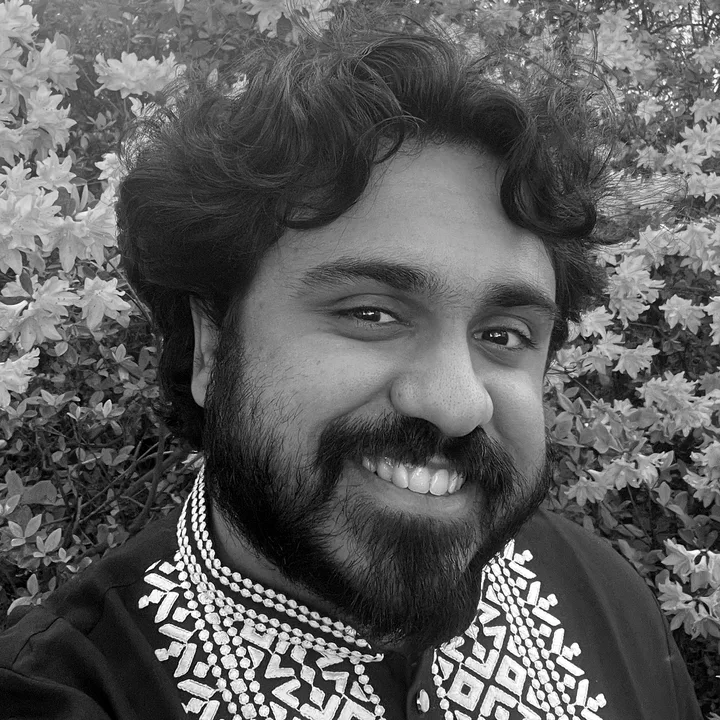
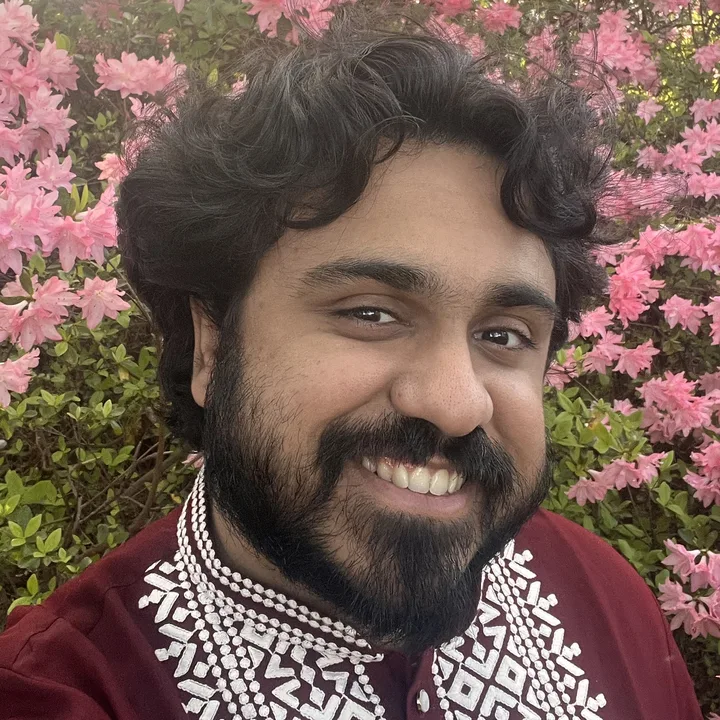
Playlab: team card photo turns to full color on hover
The photo is now the color crop, greyed with a CSS filter that eases off
on hover, as on Playlab's team page.

Claude-Session: https://claude.ai/code/session_01LvZ3gHBdktRdPitHGw6W9i

diff --git a/playlab/index.html b/playlab/index.html
@@ -183,7 +183,12 @@
     border-radius:8px; overflow:hidden; background:var(--paper);
     box-shadow:var(--shadow-2); transform:rotate(-2deg);
   }
-  .team-card img{ width:100%; height:auto; aspect-ratio:1; object-fit:cover; }
+  /* greyscale at rest, full color on hover, as on their team page */
+  .team-card img{
+    width:100%; height:auto; aspect-ratio:1; object-fit:cover;
+    filter:grayscale(1); transition:filter .36s cubic-bezier(.22,1,.36,1);
+  }
+  .team-card:hover img{ filter:none; }
   .team-card figcaption{ background:var(--yellow); padding:10px 12px 12px; display:flex; flex-direction:column; gap:1px; }
   .team-name{ font-size:15px; font-weight:500; line-height:1.3; }
   .team-role{ font-size:12px; line-height:1.35; }

diff --git a/CLAUDE.md b/CLAUDE.md
@@ -80,7 +80,7 @@ Some pages are tailored portfolios built for a specific job application, not gen
 | Wayfinder pitch | `wayfinder/` | Application to Wayfinder (Senior Product Designer). Restyled in Wayfinder's own brand: Forest/Sun Pop, Poppins + Lora + Londrina Solid, topo textures, no doodles or drawing toolbar |
 | Wayfinder pitch, classic | `wayfinder-classic/` | The earlier version in the portfolio's own graph-paper style, kept for reference |
 | CodePath pitch | `codepath/` | Application to CodePath (first Senior Product Designer). Portfolio style; cases reordered onboarding → Chiron → staff tools → design system |
-| Playlab pitch | `playlab/` | Application to Playlab (Senior Product Designer). Restyled in Playlab's own brand: cream/mist bands, cyan hero with a cut-paper collage holding a greyscale team-page portrait card (`rahul-team.webp`), Inter Tight standing in for Neue Haas Grotesk, Ink buttons at a 4px radius, pink graph-paper panel, ruled-paper résumé band, no doodles or drawing toolbar. Copy angled at building with AI and educators as makers; cases ordered Chiron → educator tools → onboarding → other disciplines |
+| Playlab pitch | `playlab/` | Application to Playlab (Senior Product Designer). Restyled in Playlab's own brand: cream/mist bands, cyan hero with a cut-paper collage holding a team-page portrait card (`rahul-team.webp`, greyscale until hovered), Inter Tight standing in for Neue Haas Grotesk, Ink buttons at a 4px radius, pink graph-paper panel, ruled-paper résumé band, no doodles or drawing toolbar. Copy angled at building with AI and educators as makers; cases ordered Chiron → educator tools → onboarding → other disciplines |
 | Playlab pitch, classic | `playlab-classic/` | The earlier version in the portfolio's own graph-paper style, kept for reference |
 
 `wayfinder2/` is only a redirect to `/wayfinder`: the branded page lived there while it was compared
